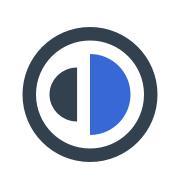
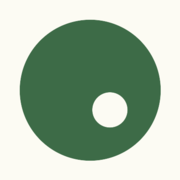
Upgrade to Zola 0.23 and restyle with a moss palette (#45)
Zola 0.23 moves to Tera 2, which drops macros, so the head metadata
helpers become variables in base.html. Config keys are renamed
(generate_feeds, feed_filenames, [markdown.highlighting]) and the feed
spells out its RFC 3339 date format.

Vercel builds with Zola 0.23.6's musl binary, pinned via ZOLA_VERSION,
because the glibc build needs a newer glibc than Vercel's build image.

Restyle with a warm ivory background, near-black text and a moss-green
accent; Inter Tight for the name; small uppercase section labels; no
link hover animation. New favicon: a moss disc with an ivory dot.

diff --git a/templates/base.html b/templates/base.html
@@ -1,4 +1,8 @@
-{% import "macros/head.html" as head -%}
+{#- Page metadata, falling back from section to page to site defaults. -#}
+{%- set meta_title = (section.title ~ " — " ~ config.title) if section?.title else ((page.title ~ " — " ~ config.title) if page?.title else config.title) -%}
+{%- set meta_description = section.description if section?.description else (page.description if page?.description else config.description) -%}
+{%- set meta_image = get_url(path=section?.extra?.image or page?.extra?.image or "img/logo-padded-400x400.png") -%}
+{%- set meta_url = current_url or config.base_url -%}
 
 <!DOCTYPE html>
 <html lang="en">
@@ -6,28 +10,29 @@
     <meta charset="utf-8" />
     <meta name="viewport" content="width=device-width, initial-scale=1" />
 
-    <title>{% block title %}{{ head::title() }}{% endblock %}</title>
+    <title>{% block title %}{{ meta_title }}{% endblock %}</title>
 
     <meta
       name="description"
-      content="{% block description %}{{ head::description() }}{% endblock %}"
+      content="{% block description %}{{ meta_description }}{% endblock %}"
     />
-    <meta name="theme-color" content="#ffffff" />
+    <meta name="theme-color" content="#fcfbf3" />
 
     <link rel="preconnect" href="https://fonts.googleapis.com" />
     <link rel="preconnect" href="https://fonts.gstatic.com" crossorigin />
     <link
-      href="https://fonts.googleapis.com/css2?family=Inter:wght@400;500;700&display=swap"
+      href="https://fonts.googleapis.com/css2?family=Inter:wght@400;500;600;700&family=Inter+Tight:wght@600&display=swap"
       rel="stylesheet"
     />
 
     <link rel="stylesheet" href="/css/main.css" />
 
     <link rel="apple-touch-icon" href="/apple-touch-icon.png" />
+    <link rel="icon" type="image/svg+xml" href="/favicon.svg" />
     <link rel="icon" type="image/png" sizes="32x32" href="/favicon-32x32.png" />
     <link rel="icon" type="image/png" sizes="16x16" href="/favicon-16x16.png" />
 
-    <link rel="canonical" href="{{ head::url() }}" />
+    <link rel="canonical" href="{{ meta_url | safe }}" />
     <link
       rel="alternate"
       type="application/atom+xml"
@@ -38,18 +43,18 @@
     <script defer src="/js/main.js"></script>
 
     <meta property="og:type" content="website" />
-    <meta property="og:url" content="{{ head::url() }}" />
-    <meta property="og:title" content="{{ head::title() }}" />
-    <meta property="og:description" content="{{ head::description() }}" />
-    <meta property="og:image" content="{{ head::image() }}" />
+    <meta property="og:url" content="{{ meta_url | safe }}" />
+    <meta property="og:title" content="{{ meta_title }}" />
+    <meta property="og:description" content="{{ meta_description }}" />
+    <meta property="og:image" content="{{ meta_image | safe }}" />
     <meta property="og:site_name" content="{{ config.title }}" />
 
     <meta name="twitter:card" content="summary" />
     <meta name="twitter:site" content="{{ config.extra.twitter_id }}" />
     <meta name="twitter:creator" content="{{ config.extra.twitter_id }}" />
-    <meta name="twitter:title" content="{{ head::title() }}" />
-    <meta name="twitter:description" content="{{ head::description() }}" />
-    <meta name="twitter:image" content="{{ head::image() }}" />
+    <meta name="twitter:title" content="{{ meta_title }}" />
+    <meta name="twitter:description" content="{{ meta_description }}" />
+    <meta name="twitter:image" content="{{ meta_image | safe }}" />
   </head>
 
   <body>

diff --git a/sass/css/main.scss b/sass/css/main.scss
@@ -5,12 +5,14 @@
 // ----------------------------------------------------------------------------
 
 :root {
-  --color-background: #f6f5f5;
-  --color-highlight: #000;
-  --color-default: #3a3132;
-  --color-dim: #9d9899;
-  --color-vdim: #c4c1c2;
+  --color-background: #fcfbf3;
+  --color-highlight: #1d221c;
+  --color-default: #33382f;
+  --color-dim: #686d63;
+  --color-vdim: #e3e2d6;
+  --color-accent: #3d6b47;
   --font-sans: Inter, Helvetica, Segoe UI, Roboto, Arial, sans-serif;
+  --font-display: "Inter Tight", var(--font-sans);
   --font-mono: Menlo, Monaco, Consolas, monospace;
   --font-size: 1.6rem;
   --font-size-s: 1.4rem;
@@ -75,13 +77,12 @@ h3 {
 
 a {
   color: var(--color-default);
-  text-decoration-color: var(--color-dim);
-  text-decoration-thickness: 1px;
-  text-underline-offset: 0.05em;
+  text-decoration-color: var(--color-accent);
+  text-decoration-thickness: 1.5px;
+  text-underline-offset: 0.15em;
 
   &:hover {
-    color: var(--color-highlight);
-    transition: color 0.3s ease-in;
+    color: var(--color-accent);
   }
 }
 
@@ -225,6 +226,24 @@ header {
   a {
     text-decoration: none;
   }
+
+  h1 {
+    font-family: var(--font-display);
+    font-size: 2.8rem;
+    font-weight: 600;
+    letter-spacing: -0.015em;
+    line-height: 1.2;
+
+    // Small accent-coloured square after the name.
+    &::after {
+      content: "";
+      display: inline-block;
+      width: 0.25em;
+      height: 0.25em;
+      margin-left: 0.15em;
+      background: var(--color-accent);
+    }
+  }
 }
 
 // ----------------------------------------------------------------------------
@@ -234,6 +253,16 @@ header {
 .home {
   section {
     margin-bottom: var(--spacing-xl);
+  }
+
+  h2 {
+    color: var(--color-dim);
+    font-size: 1.2rem;
+    font-weight: 600;
+    letter-spacing: 0.1em;
+    text-transform: uppercase;
+    padding-bottom: var(--spacing-s);
+    border-bottom: 0.1rem solid var(--color-vdim);
   }
 }
 
